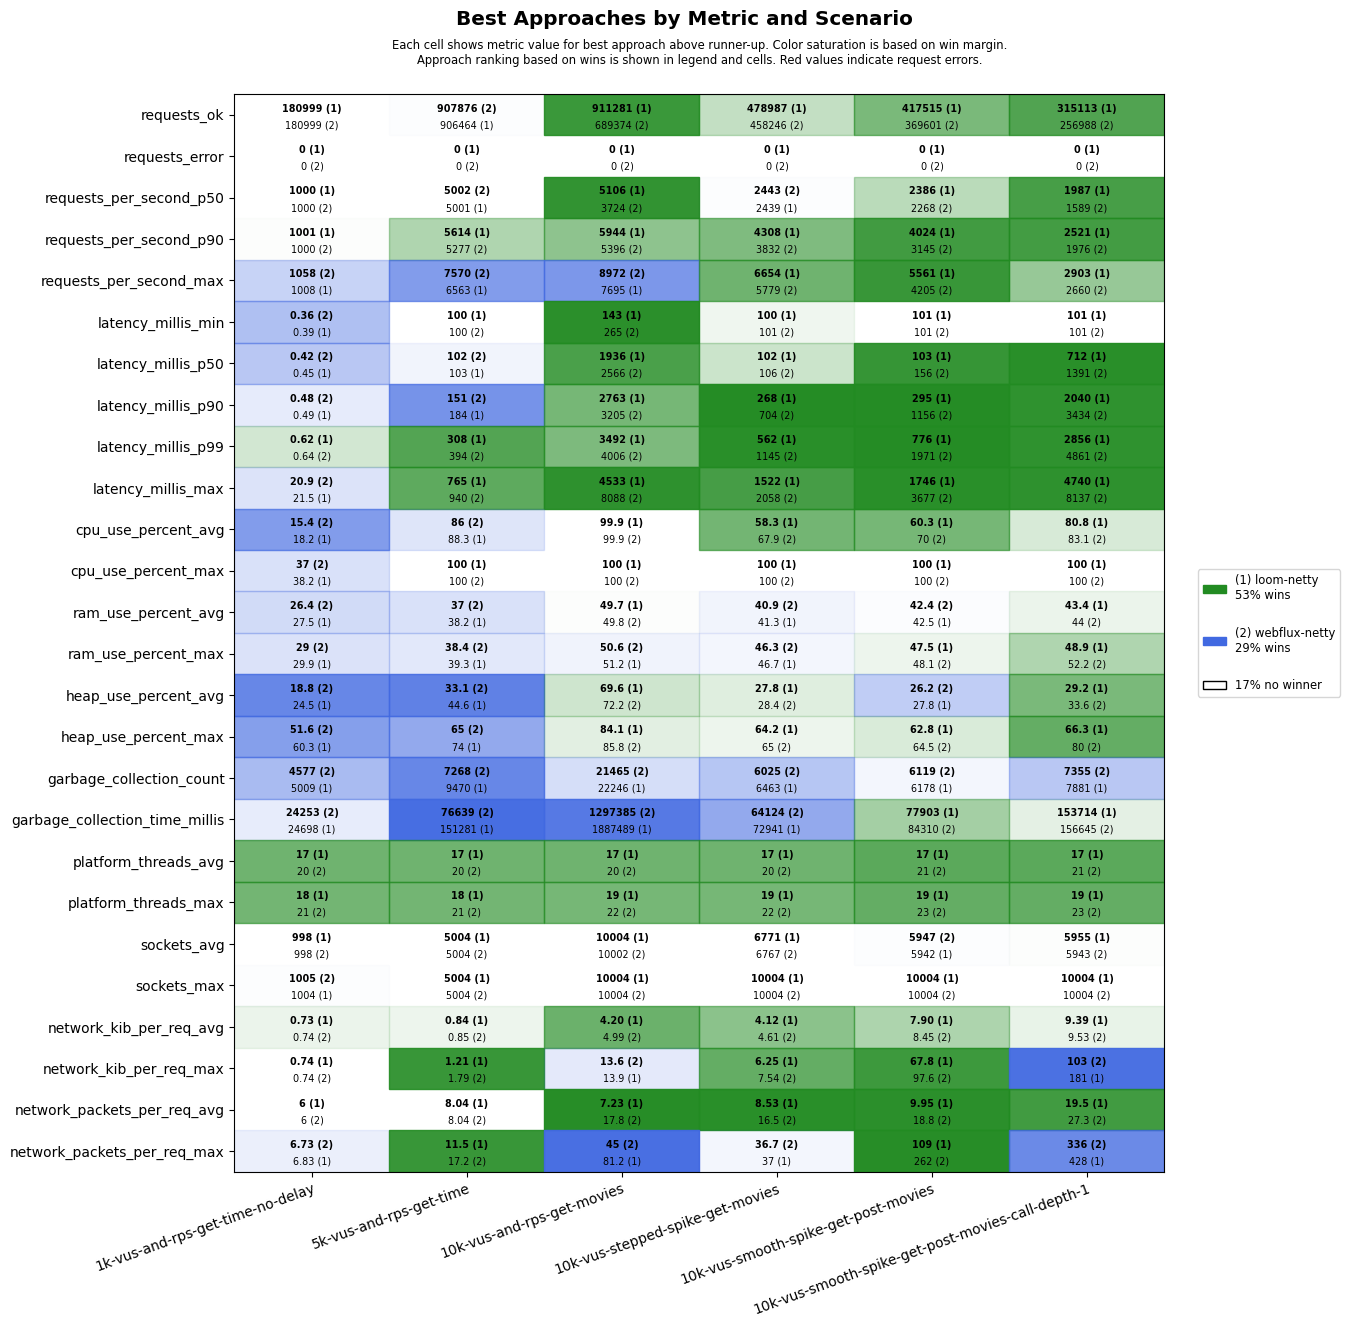
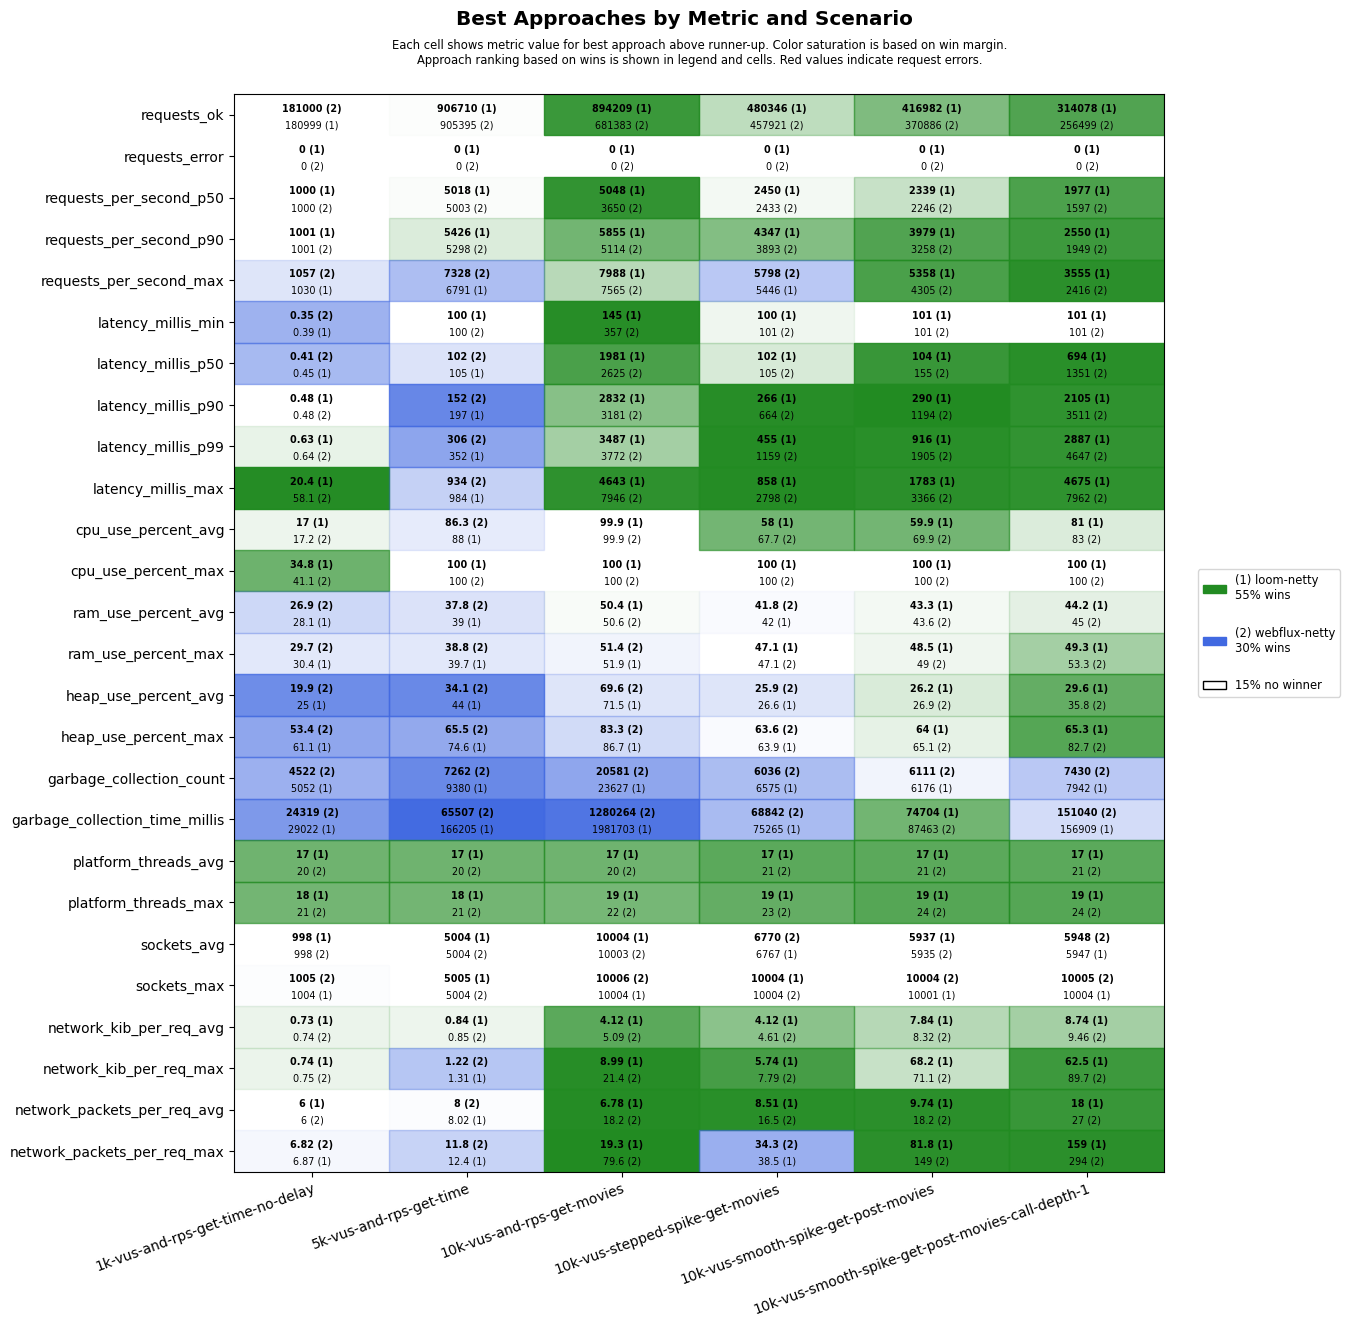
Apply automatic changes

diff --git a/results/ci/scenarios-ci/Ubuntu-22.04/java-23/results.md b/results/ci/scenarios-ci/Ubuntu-22.04/java-23/results.md
@@ -4,22 +4,22 @@
 
 | **Name**                | **Value** |
 |-------------------------|-----------|
-| **Start (UTC)** | 2024-11-02 02:48:12 |
-| **End (UTC)** | 2024-11-02 04:13:04 |
-| **Duration (hh:mm:ss)** | 01:24:52 |
+| **Start (UTC)** | 2025-01-02 02:50:25 |
+| **End (UTC)** | 2025-01-02 04:15:31 |
+| **Duration (hh:mm:ss)** | 01:25:06 |
 
 ## System Specs
 
 | **Name**                | **Value** |
 |-------------------------|-----------|
 | **Java** | OpenJDK 64-Bit Server VM Corretto-23.0.1.8.1 (build 23.0.1+8-FR, mixed mode, sharing) |
-| **Spring Boot** | 3.3.5 |
+| **Spring Boot** | 3.4.1 |
 | **Python** | 3.10.12 |
 | **OS** | Ubuntu 22.04.5 LTS |
 | **Kernel** | 6.5.0-1025-azure |
 | **CPU** | AMD EPYC 7763 64-Core Processor |
 | **CPU Cores** | 4 |
-| **RAM** | 15Gi total, 13Gi available |
+| **RAM** | 15Gi total, 11Gi available |
 | **Disk** | 159G total, 97G available |
 
 ## Scenarios
